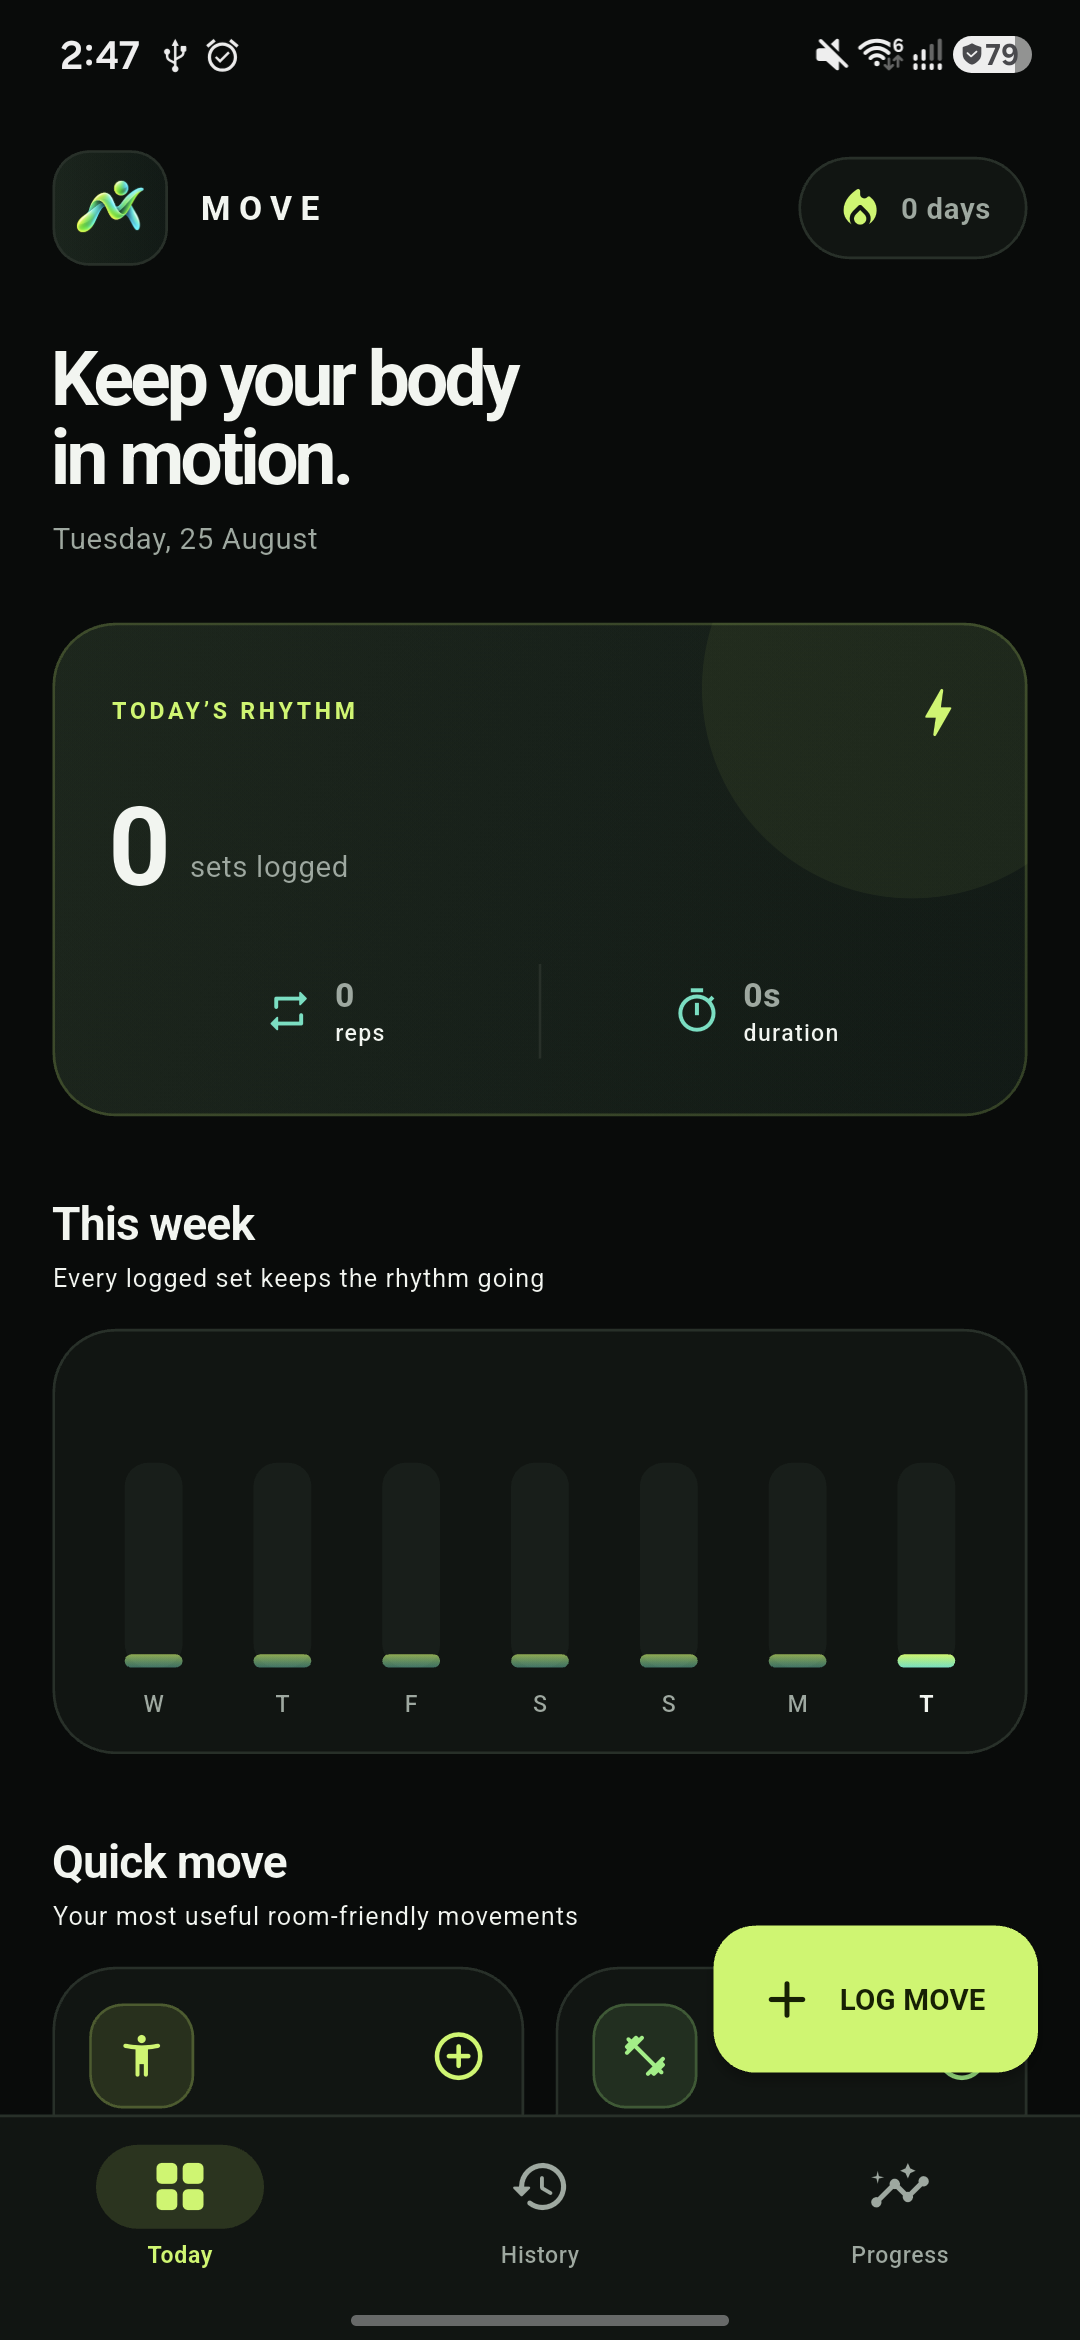
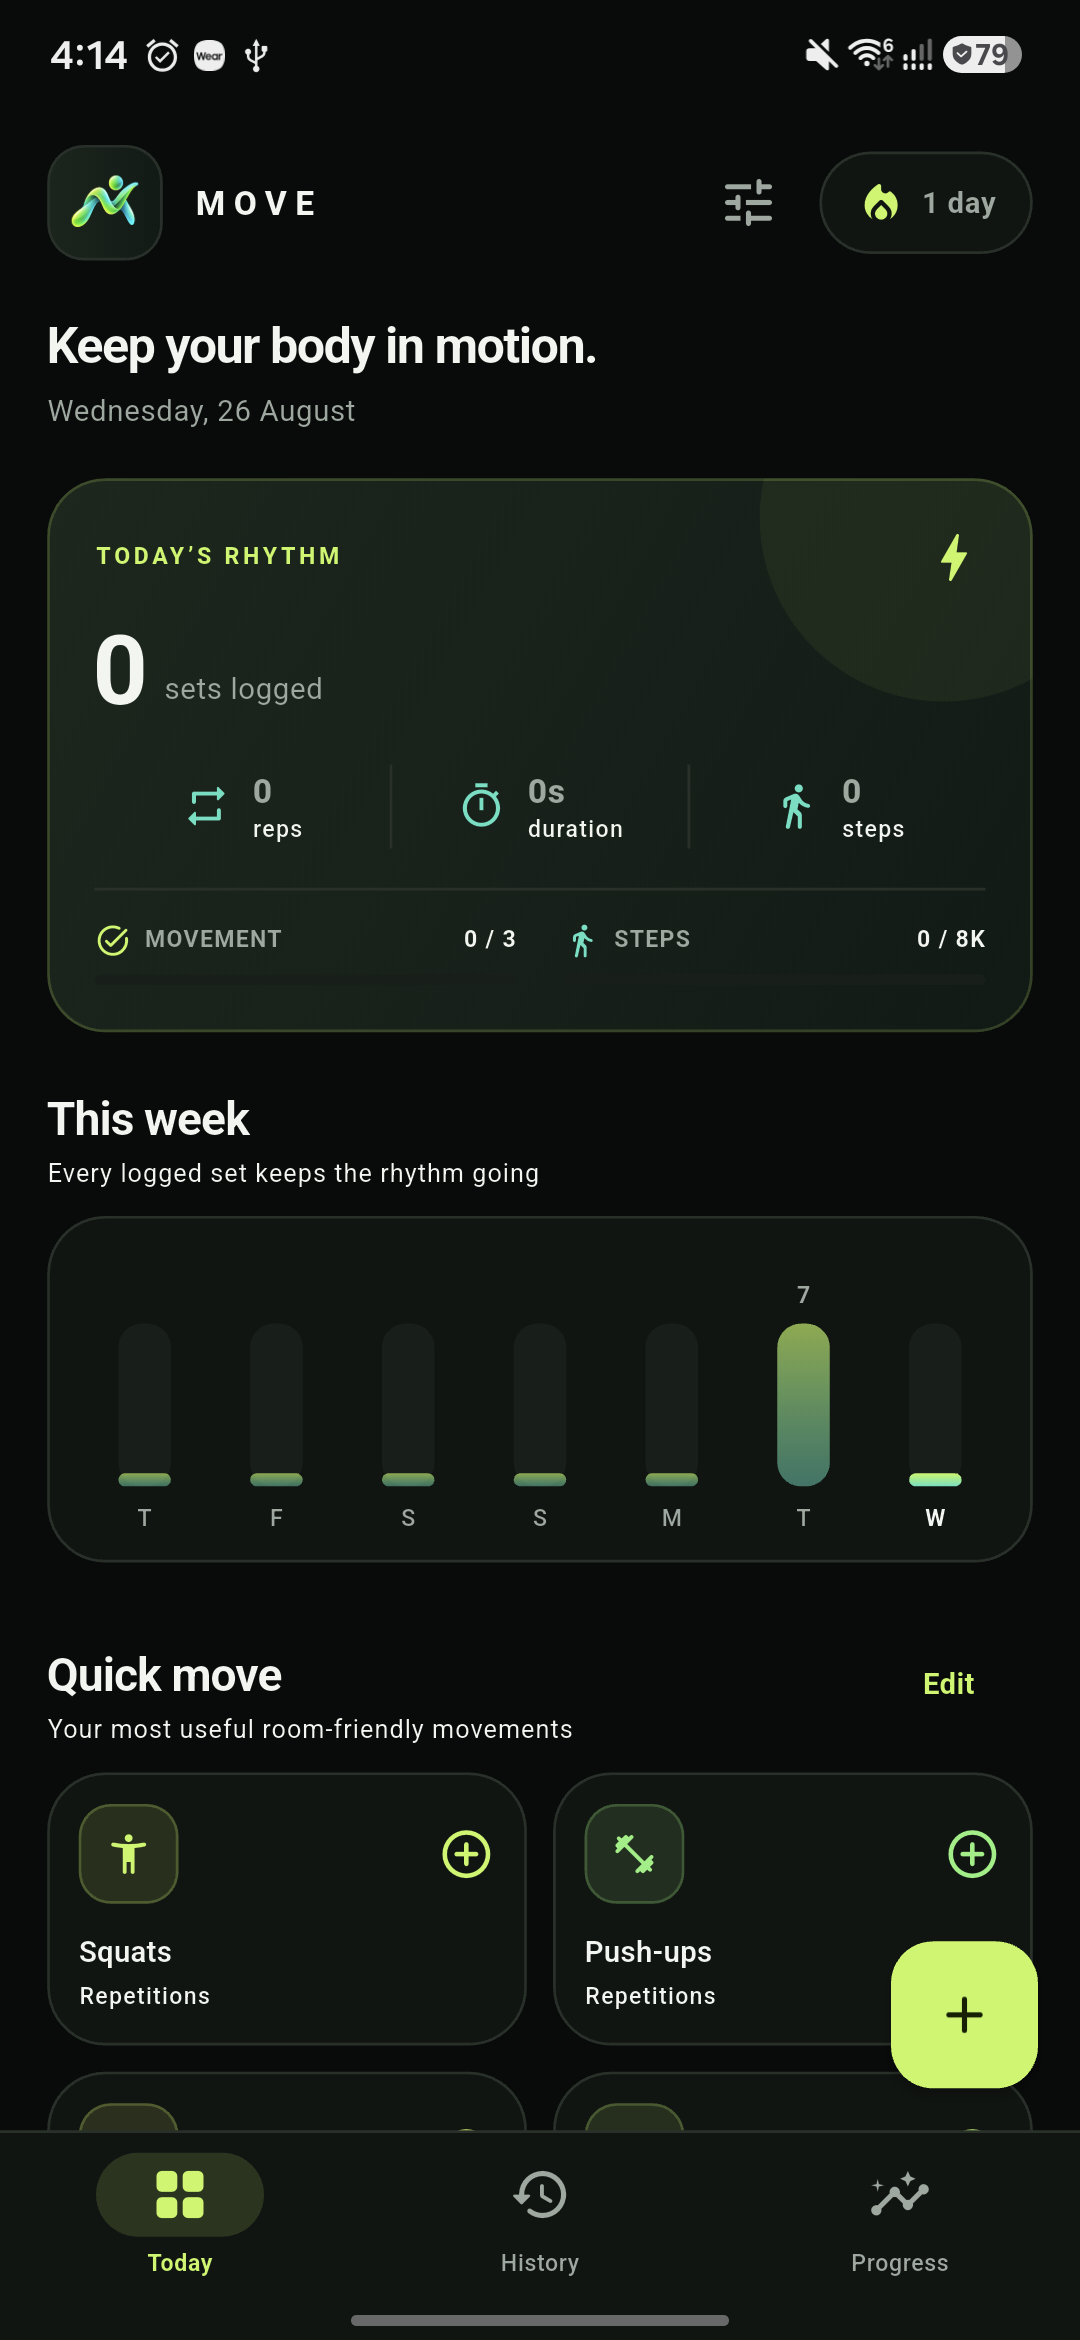
docs: refresh README for v1.1.0
Show the current dashboard and document the latest activity features and release path.

diff --git a/README.md b/README.md
@@ -1,16 +1,16 @@
 <div align="center">
   <img src="assets/icon/move_icon_foreground.png" width="104" alt="Move app icon">
   <h1>Move</h1>
-  <p>A focused, private movement logger for people who spend a lot of time sitting.</p>
+  <p>A private, offline companion for daily movement, walking, and consistency.</p>
 </div>
 
 <p align="center">
-  <img src="docs/screenshots/dashboard.png" width="340" alt="Move dashboard on Android">
+  <img src="docs/screenshots/dashboard.png" width="340" alt="Move v1.1.0 dashboard on Android">
 </p>
 
 ## About
 
-Move makes it fast to record small bursts of activity without accounts, subscriptions, or setup. Log repetitions such as squats, push-ups, and hand-grip squeezes, or timed movements such as planks and stretches. All data stays in a local SQLite database on the device.
+Move makes it fast to record small bursts of activity without accounts or subscriptions. Log repetitions such as squats and push-ups, track timed movements such as planks and stretches, and bring in daily steps through read-only Health Connect access. Activity history and preferences stay on the device.
 
 ## Features
 
@@ -18,11 +18,11 @@ Move makes it fast to record small bursts of activity without accounts, subscrip
 - 24 room-friendly strength and mobility movements
 - Left, right, and both-side tracking where useful
 - Optional notes plus log editing and deletion
-- Read-only daily steps through Android Health Connect
+- Read-only daily steps through Android Health Connect, including Samsung Health
 - Independent daily movement and step goals
 - One optional, progress-aware reminder at a random time from 5 AM to 11 PM
 - Customizable Quick Moves with add, remove, and drag ordering
-- Weekly recaps, daily streaks, and a 35-day consistency view
+- Weekly recaps, unified active-day streaks, and a 35-day consistency view
 - Compact Home-screen widget for today’s goals and progress
 - Per-movement rankings and progress summaries
 - Offline SQLite persistence
@@ -30,6 +30,10 @@ Move makes it fast to record small bursts of activity without accounts, subscrip
 - Adaptive Android launcher icon
 
 Accounts and cloud synchronization are intentionally outside the current scope.
+
+## Download
+
+Download the latest Android APK from [GitHub Releases](https://github.com/zavrenn/Move/releases/latest). Move supports Android 8.0 and newer; automatic step tracking requires Health Connect.
 
 ## Run locally
 
@@ -51,6 +55,8 @@ dart run flutter_launcher_icons
 ```sh
 flutter analyze
 flutter test
+cd android
+./gradlew :app:testDebugUnitTest
 ```
 
 ## Project structure
@@ -65,7 +71,14 @@ lib/
 ├── progress_screen.dart        Trends and consistency views
 ├── movement_log_sheet.dart     Movement logging flow
 ├── quick_moves_sheet.dart      Quick Move customization
+├── move_settings_sheet.dart    Goals, reminders, Health, and widget settings
 └── device_services.dart        Health, reminders, goals, and widget bridge
+
+android/app/src/main/kotlin/com/med/move/
+├── MainActivity.kt             Health Connect and Flutter platform bridge
+├── ReminderScheduler.kt        Daily reminder scheduling and delivery
+├── MoveStateStore.kt           Shared goal, widget, and reminder state
+└── MoveWidgetProvider.kt       Native home-screen widget
 ```
 
 ## Data and privacy
